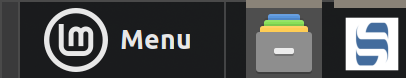
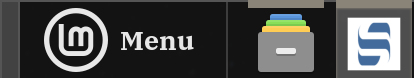
Soul Themes: Improve support for older/alternative menus (#911)
* Update image assets

Changed region(s): [[0.5911, 0.0, 1.0, 1.0], [0.0887, 0.1026, 0.4729, 0.9231], [0.532, 0.0256, 0.5616, 1.0]]

diff --git a/Soul-Dark/files/Soul-Dark/cinnamon/cinnamon.css b/Soul-Dark/files/Soul-Dark/cinnamon/cinnamon.css
@@ -211,7 +211,7 @@ stage {
   font-size: 1em;
   line-height: 1.45; }
 
-.appmenu-application-button-description, .prompt-dialog-error-label, .prompt-dialog-info-label, .prompt-dialog-null-label, .run-dialog-description, .message-dialog-content .message-dialog-caption, .dialog-list .dialog-list-box .dialog-list-item .dialog-list-item-description, .calendar-event-countdown, .caps-lock-warning-label {
+.menu-application-button-description, .appmenu-application-button-description, .prompt-dialog-error-label, .prompt-dialog-info-label, .prompt-dialog-null-label, .run-dialog-description, .message-dialog-content .message-dialog-caption, .dialog-list .dialog-list-box .dialog-list-item .dialog-list-item-description, .calendar-event-countdown, .caps-lock-warning-label {
   font-weight: 400;
   font-size: 0.818em;
   line-height: 1.5; }
@@ -446,10 +446,10 @@ stage {
         -inactive-window-background: rgba(232, 232, 232, 0.15);
         -inactive-window-border: rgba(232, 232, 232, 0.2); }
     .workspace-graph .workspace .windows {
-      -active-window-background: rgba(232, 232, 232, 0.3);
-      -active-window-border: rgba(232, 232, 232, 0.4);
-      -inactive-window-background: rgba(232, 232, 232, 0.1);
-      -inactive-window-border: rgba(232, 232, 232, 0.15); }
+      -active-window-background: rgba(232, 232, 232, 0.4);
+      -active-window-border: rgba(232, 232, 232, 0.45);
+      -inactive-window-background: rgba(232, 232, 232, 0.15);
+      -inactive-window-border: rgba(232, 232, 232, 0.2); }
 
 .system-status-icon {
   icon-size: 1.091em; }
@@ -1483,19 +1483,19 @@ StScrollBar StButton#hhandle {
   transition-duration: 200ms;
   transition-property: background-color, border-color; }
   .grouped-window-list-item-box.top {
-    border-bottom-width: 5px; }
+    border-bottom-width: 4px; }
   .grouped-window-list-item-box.bottom {
-    border-top-width: 5px; }
+    border-top-width: 4px; }
   .grouped-window-list-item-box.right {
     padding-left: 0;
     padding-right: 0;
-    border-right-width: 5px; }
+    border-right-width: 4px; }
     .grouped-window-list-item-box.right StBin {
       padding-right: 0; }
   .grouped-window-list-item-box.left {
     padding-left: 0;
     padding-right: 0;
-    border-left-width: 5px; }
+    border-left-width: 4px; }
     .grouped-window-list-item-box.left StBin {
       padding-left: 0; }
   .grouped-window-list-item-box:hover {
@@ -1602,20 +1602,20 @@ StScrollBar StButton#hhandle {
   .window-list-item-box.top StLabel, .window-list-item-box.bottom StLabel {
     padding-left: 2px; }
   .window-list-item-box.top {
-    border-bottom-width: 5px; }
+    border-bottom-width: 4px; }
   .window-list-item-box.bottom {
-    border-top-width: 5px; }
+    border-top-width: 4px; }
   .window-list-item-box.right {
     padding-left: 0;
     padding-right: 0;
-    border-right-width: 5px; }
+    border-right-width: 4px; }
     .window-list-item-box.right StBin {
       padding-right: 0;
       padding-left: 5px; }
   .window-list-item-box.left {
     padding-left: 0;
     padding-right: 0;
-    border-left-width: 5px; }
+    border-left-width: 4px; }
     .window-list-item-box.left StBin {
       padding-left: 0;
       padding-right: 5px; }
@@ -1638,10 +1638,13 @@ StScrollBar StButton#hhandle {
   spacing: 4px;
   box-shadow: 0 0 6px 0 rgba(0, 0, 0, 0.4); }
 
-.menu-category-button-greyed, .menu-category-button-selected, .menu-category-button, .menu-application-button-selected, .menu-application-button {
+.menu-category-button-greyed, .menu-category-button-selected, .menu-category-button, .menu-application-button-selected, .menu-application-button, .menu-favorites-button {
   padding: 6px;
   spacing: 4px;
-  border-radius: 6px; }
+  border-radius: 6px;
+  border: 1px solid transparent;
+  transition-duration: 200ms;
+  transition-property: background-color, border-color, color, box-shadow; }
 
 .menu-favorites-box {
   padding: 9px;
@@ -1651,15 +1654,21 @@ StScrollBar StButton#hhandle {
 
 .menu-favorites-button {
   padding: 9px;
-  border-radius: 6px; }
+  margin: 0 6px; }
   .menu-favorites-button:hover {
-    background-color: rgba(83, 83, 83, 0.92); }
+    background-color: rgba(70, 70, 70, 0.915);
+    border-color: #555555; }
+  .menu-favorites-button:focus {
+    background-color: rgba(57, 57, 57, 0.91);
+    border-color: #8a8378; }
 
 .menu-categories-box {
-  padding: 9px 24px; }
+  padding: 9px 24px;
+  spacing: 12px; }
 
 .menu-applications-box {
-  padding: 9px; }
+  padding: 9px;
+  padding-right: 6px; }
 
 .menu-applications-inner-box:ltr {
   padding-left: 24px; }
@@ -1670,11 +1679,15 @@ StScrollBar StButton#hhandle {
 .menu-application-button-label {
   padding: 0; }
 
+.menu-application-button-description {
+  color: rgba(189, 189, 189, 0.975); }
+
 .menu-application-button:highlighted {
   font-weight: bold; }
 
 .menu-application-button-selected {
-  background-color: rgba(57, 57, 57, 0.91); }
+  background-color: rgba(70, 70, 70, 0.915);
+  border-color: #555555; }
   .menu-application-button-selected:highlighted {
     font-weight: bold; }
 
@@ -1682,10 +1695,16 @@ StScrollBar StButton#hhandle {
   padding: 0; }
 
 .menu-category-button:hover {
-  background-color: rgba(70, 70, 70, 0.915); }
+  background-color: rgba(70, 70, 70, 0.915);
+  border-color: #555555; }
+
+.menu-category-button:focus {
+  background-color: rgba(57, 57, 57, 0.91);
+  border-color: #8a8378; }
 
 .menu-category-button-selected {
-  background-color: rgba(57, 57, 57, 0.91); }
+  background-color: rgba(70, 70, 70, 0.915);
+  border-color: #555555; }
 
 .menu-category-button-greyed {
   color: rgba(131, 131, 131, 0.945);
@@ -1702,7 +1721,8 @@ StScrollBar StButton#hhandle {
   color: rgba(131, 131, 131, 0.945); }
 
 .menu-search-box {
-  padding: 0 0 6px 9px; }
+  padding: 0 0 6px 9px;
+  spacing: 12px; }
 
 .menu-search-entry-icon {
   icon-size: 1.091em; }

diff --git a/Soul-Light/files/Soul-Light/cinnamon/cinnamon.css b/Soul-Light/files/Soul-Light/cinnamon/cinnamon.css
@@ -211,7 +211,7 @@ stage {
   font-size: 1em;
   line-height: 1.45; }
 
-.appmenu-application-button-description, .prompt-dialog-error-label, .prompt-dialog-info-label, .prompt-dialog-null-label, .run-dialog-description, .message-dialog-content .message-dialog-caption, .dialog-list .dialog-list-box .dialog-list-item .dialog-list-item-description, .calendar-event-countdown, .caps-lock-warning-label {
+.menu-application-button-description, .appmenu-application-button-description, .prompt-dialog-error-label, .prompt-dialog-info-label, .prompt-dialog-null-label, .run-dialog-description, .message-dialog-content .message-dialog-caption, .dialog-list .dialog-list-box .dialog-list-item .dialog-list-item-description, .calendar-event-countdown, .caps-lock-warning-label {
   font-weight: 400;
   font-size: 0.818em;
   line-height: 1.5; }
@@ -446,10 +446,10 @@ stage {
         -inactive-window-background: rgba(26, 26, 26, 0.15);
         -inactive-window-border: rgba(26, 26, 26, 0.2); }
     .workspace-graph .workspace .windows {
-      -active-window-background: rgba(26, 26, 26, 0.3);
-      -active-window-border: rgba(26, 26, 26, 0.4);
-      -inactive-window-background: rgba(26, 26, 26, 0.1);
-      -inactive-window-border: rgba(26, 26, 26, 0.15); }
+      -active-window-background: rgba(26, 26, 26, 0.4);
+      -active-window-border: rgba(26, 26, 26, 0.45);
+      -inactive-window-background: rgba(26, 26, 26, 0.15);
+      -inactive-window-border: rgba(26, 26, 26, 0.2); }
 
 .system-status-icon {
   icon-size: 1.091em; }
@@ -1483,19 +1483,19 @@ StScrollBar StButton#hhandle {
   transition-duration: 200ms;
   transition-property: background-color, border-color; }
   .grouped-window-list-item-box.top {
-    border-bottom-width: 5px; }
+    border-bottom-width: 4px; }
   .grouped-window-list-item-box.bottom {
-    border-top-width: 5px; }
+    border-top-width: 4px; }
   .grouped-window-list-item-box.right {
     padding-left: 0;
     padding-right: 0;
-    border-right-width: 5px; }
+    border-right-width: 4px; }
     .grouped-window-list-item-box.right StBin {
       padding-right: 0; }
   .grouped-window-list-item-box.left {
     padding-left: 0;
     padding-right: 0;
-    border-left-width: 5px; }
+    border-left-width: 4px; }
     .grouped-window-list-item-box.left StBin {
       padding-left: 0; }
   .grouped-window-list-item-box:hover {
@@ -1602,20 +1602,20 @@ StScrollBar StButton#hhandle {
   .window-list-item-box.top StLabel, .window-list-item-box.bottom StLabel {
     padding-left: 2px; }
   .window-list-item-box.top {
-    border-bottom-width: 5px; }
+    border-bottom-width: 4px; }
   .window-list-item-box.bottom {
-    border-top-width: 5px; }
+    border-top-width: 4px; }
   .window-list-item-box.right {
     padding-left: 0;
     padding-right: 0;
-    border-right-width: 5px; }
+    border-right-width: 4px; }
     .window-list-item-box.right StBin {
       padding-right: 0;
       padding-left: 5px; }
   .window-list-item-box.left {
     padding-left: 0;
     padding-right: 0;
-    border-left-width: 5px; }
+    border-left-width: 4px; }
     .window-list-item-box.left StBin {
       padding-left: 0;
       padding-right: 5px; }
@@ -1638,10 +1638,13 @@ StScrollBar StButton#hhandle {
   spacing: 4px;
   box-shadow: 0 0 6px 0 rgba(0, 0, 0, 0.15); }
 
-.menu-category-button-greyed, .menu-category-button-selected, .menu-category-button, .menu-application-button-selected, .menu-application-button {
+.menu-category-button-greyed, .menu-category-button-selected, .menu-category-button, .menu-application-button-selected, .menu-application-button, .menu-favorites-button {
   padding: 6px;
   spacing: 4px;
-  border-radius: 6px; }
+  border-radius: 6px;
+  border: 1px solid transparent;
+  transition-duration: 200ms;
+  transition-property: background-color, border-color, color, box-shadow; }
 
 .menu-favorites-box {
   padding: 9px;
@@ -1651,15 +1654,21 @@ StScrollBar StButton#hhandle {
 
 .menu-favorites-button {
   padding: 9px;
-  border-radius: 6px; }
+  margin: 0 6px; }
   .menu-favorites-button:hover {
-    background-color: rgba(214, 214, 214, 0.9); }
+    background-color: rgba(240, 240, 240, 0.9);
+    border-color: #c8c8c8; }
+  .menu-favorites-button:focus {
+    background-color: rgba(250, 250, 250, 0.9);
+    border-color: #909090; }
 
 .menu-categories-box {
-  padding: 9px 24px; }
+  padding: 9px 24px;
+  spacing: 12px; }
 
 .menu-applications-box {
-  padding: 9px; }
+  padding: 9px;
+  padding-right: 6px; }
 
 .menu-applications-inner-box:ltr {
   padding-left: 24px; }
@@ -1670,11 +1679,15 @@ StScrollBar StButton#hhandle {
 .menu-application-button-label {
   padding: 0; }
 
+.menu-application-button-description {
+  color: rgba(103, 103, 103, 0.96); }
+
 .menu-application-button:highlighted {
   font-weight: bold; }
 
 .menu-application-button-selected {
-  background-color: rgba(250, 250, 250, 0.9); }
+  background-color: rgba(240, 240, 240, 0.9);
+  border-color: #c8c8c8; }
   .menu-application-button-selected:highlighted {
     font-weight: bold; }
 
@@ -1682,10 +1695,16 @@ StScrollBar StButton#hhandle {
   padding: 0; }
 
 .menu-category-button:hover {
-  background-color: rgba(240, 240, 240, 0.9); }
+  background-color: rgba(240, 240, 240, 0.9);
+  border-color: #c8c8c8; }
+
+.menu-category-button:focus {
+  background-color: rgba(250, 250, 250, 0.9);
+  border-color: #909090; }
 
 .menu-category-button-selected {
-  background-color: rgba(250, 250, 250, 0.9); }
+  background-color: rgba(240, 240, 240, 0.9);
+  border-color: #c8c8c8; }
 
 .menu-category-button-greyed {
   color: rgba(147, 147, 147, 0.94);
@@ -1702,7 +1721,8 @@ StScrollBar StButton#hhandle {
   color: rgba(147, 147, 147, 0.94); }
 
 .menu-search-box {
-  padding: 0 0 6px 9px; }
+  padding: 0 0 6px 9px;
+  spacing: 12px; }
 
 .menu-search-entry-icon {
   icon-size: 1.091em; }
